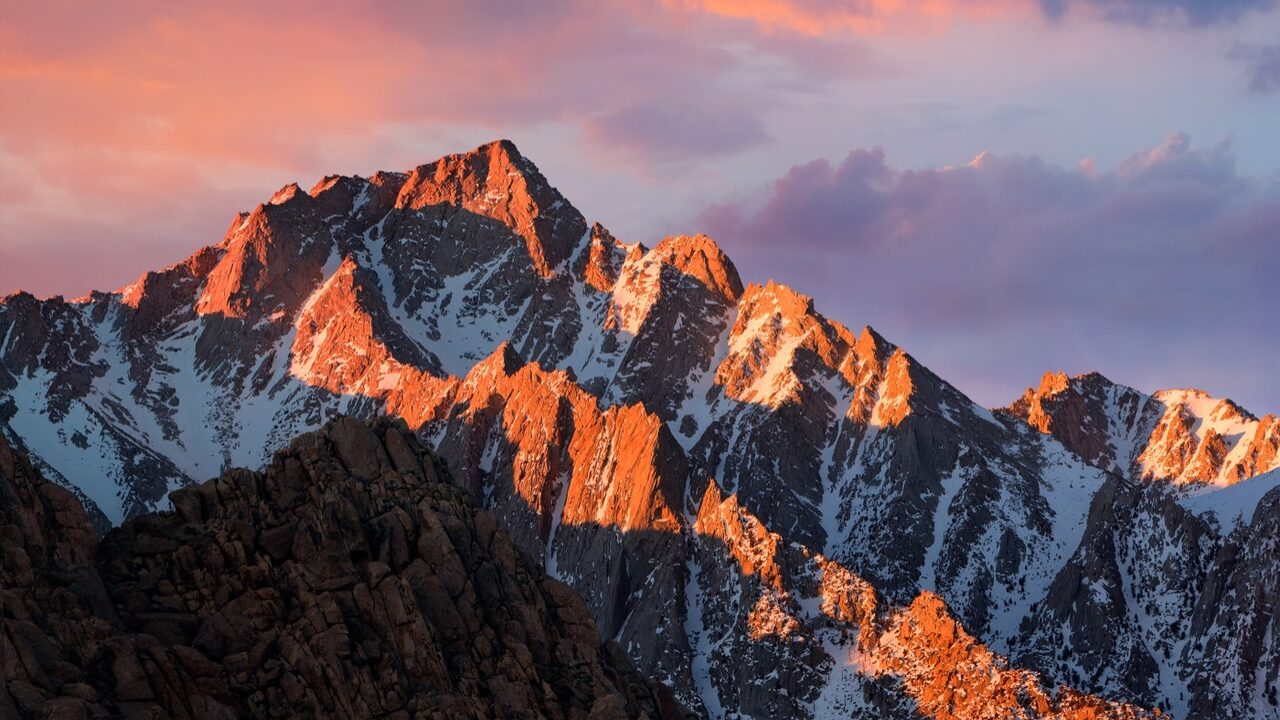
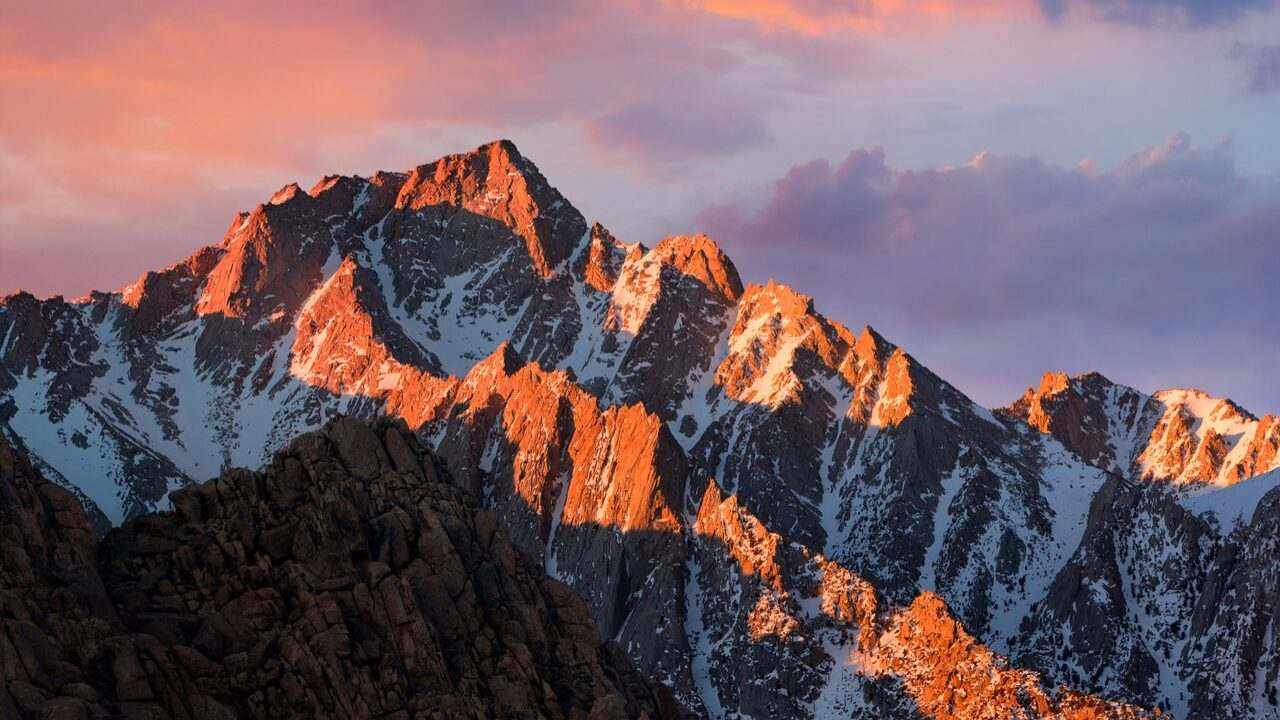
Sito più leggero e veloce: immagini WebP, caricamento a richiesta, niente salti di layout
Al primo caricamento si scaricavano 7,6 MB, quasi tutti immagini fuori schermo.
- copertine dei progetti e anteprime del menu convertite in WebP (da MB a decine di KB)
- le schede progetto caricano le immagini solo quando stanno per entrare nello schermo
- l'uscita della schermata iniziale usa una trasformazione al posto di `top`
  (CLS da 0,5 a ~0) e il contatore non ridisegna la pagina a ogni fotogramma
- il rilevatore degli strumenti per sviluppatori parte dopo 5 secondi e solo su desktop
- tolti i file di immagine non più usati

diff --git a/src/components/scrolling-preview.tsx b/src/components/scrolling-preview.tsx
@@ -39,11 +39,37 @@ const ScrollingPreview = ({
   bg?: string;
 }) => {
   const reduceMotion = useReducedMotion();
+  const rootRef = useRef<HTMLDivElement>(null);
   const viewportRef = useRef<HTMLDivElement>(null);
   const [scrollPx, setScrollPx] = useState(0);
   const [bgReady, setBgReady] = useState(false);
+  // Le immagini partono solo quando la scheda sta per entrare nello schermo:
+  // prima si scaricavano tutte insieme al caricamento della pagina, anche
+  // quelle della sezione Progetti, molto più in basso.
+  const [near, setNear] = useState(false);
 
   useEffect(() => {
+    const el = rootRef.current;
+    if (!el) return;
+    if (typeof IntersectionObserver === "undefined") {
+      setNear(true);
+      return;
+    }
+    const io = new IntersectionObserver(
+      (entries) => {
+        if (entries.some((e) => e.isIntersecting)) {
+          setNear(true);
+          io.disconnect();
+        }
+      },
+      { rootMargin: "800px 0px" }
+    );
+    io.observe(el);
+    return () => io.disconnect();
+  }, []);
+
+  useEffect(() => {
+    if (!near) return;
     let cancelled = false;
     const img = new window.Image();
     const compute = () => {
@@ -63,12 +89,12 @@ const ScrollingPreview = ({
       cancelled = true;
       window.removeEventListener("resize", compute);
     };
-  }, [src]);
+  }, [src, near]);
 
   // Preload the wallpaper so a missing/404 file falls back to the gradient
   // instead of rendering a broken background.
   useEffect(() => {
-    if (!bg) {
+    if (!bg || !near) {
       setBgReady(false);
       return;
     }
@@ -80,7 +106,7 @@ const ScrollingPreview = ({
     return () => {
       cancelled = true;
     };
-  }, [bg]);
+  }, [bg, near]);
 
   const scrolls = scrollPx > 0;
   const animate = !reduceMotion && scrolls;
@@ -97,6 +123,7 @@ const ScrollingPreview = ({
 
   return (
     <div
+      ref={rootRef}
       className="pointer-events-none absolute inset-0"
       role="img"
       aria-label={alt}
@@ -134,7 +161,7 @@ const ScrollingPreview = ({
           style={{
             position: "absolute",
             inset: 0,
-            backgroundImage: `url("${src}")`,
+            backgroundImage: near ? `url("${src}")` : "none",
             // Tall pages fill width and pan; normal images cover the frame.
             backgroundSize: scrolls ? "100% auto" : "cover",
             backgroundRepeat: "no-repeat",

diff --git a/src/data/projects.tsx b/src/data/projects.tsx
@@ -284,7 +284,7 @@ const projects: Project[] = [
         id: "tripify",
         category: "Enterprise Travel App",
         title: "Tripify",
-        src: "/assets/projects-screenshots/tripify/cover.jpg",
+        src: "/assets/projects-screenshots/tripify/cover.webp",
         skills: {
             frontend: [
                 PROJECT_SKILLS.kotlin,
@@ -461,7 +461,7 @@ const demoProjects: Project[] = [
         id: "ottone",
         category: "E-Commerce Avanzato · Case Study",
         title: "Ottone — Telai a Novi Ligure",
-        src: "/assets/projects-screenshots/ottone/ottone.png",
+        src: "/assets/projects-screenshots/ottone/ottone.webp",
         skills: {
             frontend: [
                 PROJECT_SKILLS.angular,
@@ -525,7 +525,7 @@ const demoProjects: Project[] = [
         id: "piccantomane",
         category: "E-Commerce · Case Study",
         title: "Piccantomane",
-        src: "/assets/projects-screenshots/piccantomane/piccantomane.png",
+        src: "/assets/projects-screenshots/piccantomane/piccantomane.webp",
         skills: {
             frontend: [
                 PROJECT_SKILLS.angular,
@@ -593,7 +593,7 @@ const demoProjects: Project[] = [
         id: "sidero",
         category: "Sito Aziendale · Case Study",
         title: "Sìdero — Cantina in Cirò",
-        src: "/assets/projects-screenshots/sidero/sidero.png",
+        src: "/assets/projects-screenshots/sidero/sidero.webp",
         skills: {
             frontend: [
                 PROJECT_SKILLS.angular,
@@ -723,7 +723,7 @@ const demoProjects: Project[] = [
         id: "trediciTattoo",
         category: "Sito Vetrina · Case Study",
         title: "TREDICI — Studio di Tatuaggi",
-        src: "/assets/projects-screenshots/trediciTattoo/trediciTattoo.png",
+        src: "/assets/projects-screenshots/trediciTattoo/trediciTattoo.webp",
         skills: {
             frontend: [
                 PROJECT_SKILLS.angular,
@@ -780,7 +780,7 @@ const demoProjects: Project[] = [
         id: "unaNotteDiStelle",
         category: "Landing Page · Case Study",
         title: "Una Notte di Stelle",
-        src: "/assets/projects-screenshots/unaNotteDiStelle/unaNotteDiStelle.png",
+        src: "/assets/projects-screenshots/unaNotteDiStelle/unaNotteDiStelle.webp",
         skills: {
             frontend: [
                 PROJECT_SKILLS.angular,

diff --git a/src/components/header/config.ts b/src/components/header/config.ts
@@ -4,42 +4,42 @@ const links: Link[] = [
     {
         title: 'Home',
         href: '/',
-        thumbnail: '/assets/nav-link-previews/landing.png'
+        thumbnail: '/assets/nav-link-previews/landing.webp'
     },
     {
         title: 'Chi sono',
         href: '/#about',
-        thumbnail: '/assets/nav-link-previews/landing.png'
+        thumbnail: '/assets/nav-link-previews/landing.webp'
     },
     {
         title: 'Skills',
         href: '/#skills',
-        thumbnail: '/assets/nav-link-previews/skills.png'
+        thumbnail: '/assets/nav-link-previews/skills.webp'
     },
     {
         title: 'Progetti',
         href: '/#projects',
-        thumbnail: '/assets/nav-link-previews/projects.png'
+        thumbnail: '/assets/nav-link-previews/projects.webp'
     },
     {
         title: 'Demo',
         href: '/#demo',
-        thumbnail: '/assets/nav-link-previews/demo.png'
+        thumbnail: '/assets/nav-link-previews/demo.webp'
     },
     {
         title: 'Tariffe',
         href: '/#tariffe',
-        thumbnail: '/assets/nav-link-previews/tariffe.png'
+        thumbnail: '/assets/nav-link-previews/tariffe.webp'
     },
     {
         title: 'CV',
         href: '/cv',
-        thumbnail: '/assets/nav-link-previews/landing.png'
+        thumbnail: '/assets/nav-link-previews/landing.webp'
     },
     {
         title: 'Contatti',
         href: '/#contact',
-        thumbnail: '/assets/nav-link-previews/contact.png'
+        thumbnail: '/assets/nav-link-previews/contact.webp'
     }
 ];
 

diff --git a/src/components/preloader/index.tsx b/src/components/preloader/index.tsx
@@ -64,6 +64,11 @@ function Preloader({ children, disabled = false }: PreloaderProps) {
     if (perfReady && disable3D) bypassLoading();
   }, [perfReady, disable3D]);
   const loadingPercentRef = useRef<{ value: number }>({ value: 0 });
+  // Il numero mostrato cambia a passi di 5: aggiornare lo stato solo quando il
+  // passo cambia evita ~130 render a schermo intero (ogni consumatore del
+  // contesto, compresa la scena 3D, si ridisegnava a ogni fotogramma mentre
+  // sta caricando).
+  const lastStepRef = useRef(-1);
   useEffect(() => {
     if (skip) return;
     loadingTween.current = gsap.to(loadingPercentRef.current, {
@@ -71,7 +76,12 @@ function Preloader({ children, disabled = false }: PreloaderProps) {
       duration: LOADING_TIME,
       ease: "slow(0.7,0.7,false)",
       onUpdate: () => {
-        setLoadingPercent(loadingPercentRef.current.value);
+        const value = loadingPercentRef.current.value;
+        const step = value - (value % 5);
+        if (step !== lastStepRef.current) {
+          lastStepRef.current = step;
+          setLoadingPercent(value);
+        }
       },
       onComplete: () => {
         setIsLoading(false);

diff --git a/src/hooks/use-devtools-open.tsx b/src/hooks/use-devtools-open.tsx
@@ -6,15 +6,25 @@ export const useDevToolsOpen = () => {
 
   useEffect(() => {
     if (typeof window === "undefined") return;
-    addListener((isOpen) => {
-      if (isOpen) {
-        setIsDevToolsOpen(true);
-        stop();
-      }
-    });
-    launch();
+    // Su telefoni e tablet non si possono aprire gli strumenti per sviluppatori:
+    // inutile far girare il controllo (che lavora a intervalli di mezzo secondo).
+    if (!window.matchMedia("(hover: hover) and (pointer: fine)").matches) return;
+    let started = false;
+    // Parte dopo qualche secondo, a pagina già caricata, per non rubare tempo
+    // al caricamento della scena 3D.
+    const timer = window.setTimeout(() => {
+      addListener((isOpen) => {
+        if (isOpen) {
+          setIsDevToolsOpen(true);
+          stop();
+        }
+      });
+      launch();
+      started = true;
+    }, 5000);
     return () => {
-      stop();
+      window.clearTimeout(timer);
+      if (started) stop();
     };
   }, []);
   return { isDevToolsOpen };

diff --git a/src/components/preloader/anim.ts b/src/components/preloader/anim.ts
@@ -8,13 +8,16 @@ export const opacity = {
   }
 };
 
+// L'uscita sposta il pannello con una trasformazione (`y`), non con `top`:
+// animare `top` forza il layout a ogni fotogramma e il browser lo registra come
+// spostamento di layout (CLS ~0,5 sul sito), mentre `transform` resta sulla GPU.
 export const slideUp = {
   initial: {
-    top: 0,
+    y: 0,
     pointerEvents: "auto" as const,
   },
   exit: {
-    top: '-100dvh',
+    y: '-100dvh',
     // Not a value Framer Motion can interpolate, so it's applied immediately
     // once the exit starts rather than tweened alongside `top` — meaning it
     // stops this full-screen overlay from blocking every click/tap even if

diff --git a/src/components/preloader/style.module.scss b/src/components/preloader/style.module.scss
@@ -19,6 +19,9 @@
   padding-inline: 60px;
   padding-bottom: 30px;
   position: fixed;
+  top: 0;
+  left: 0;
+  will-change: transform;
   z-index: 99;
   animation: preloader-failsafe-unlock 0.01s linear 5s forwards !important;
   // TODO: Add a better color instead of just the background to make it pop more
